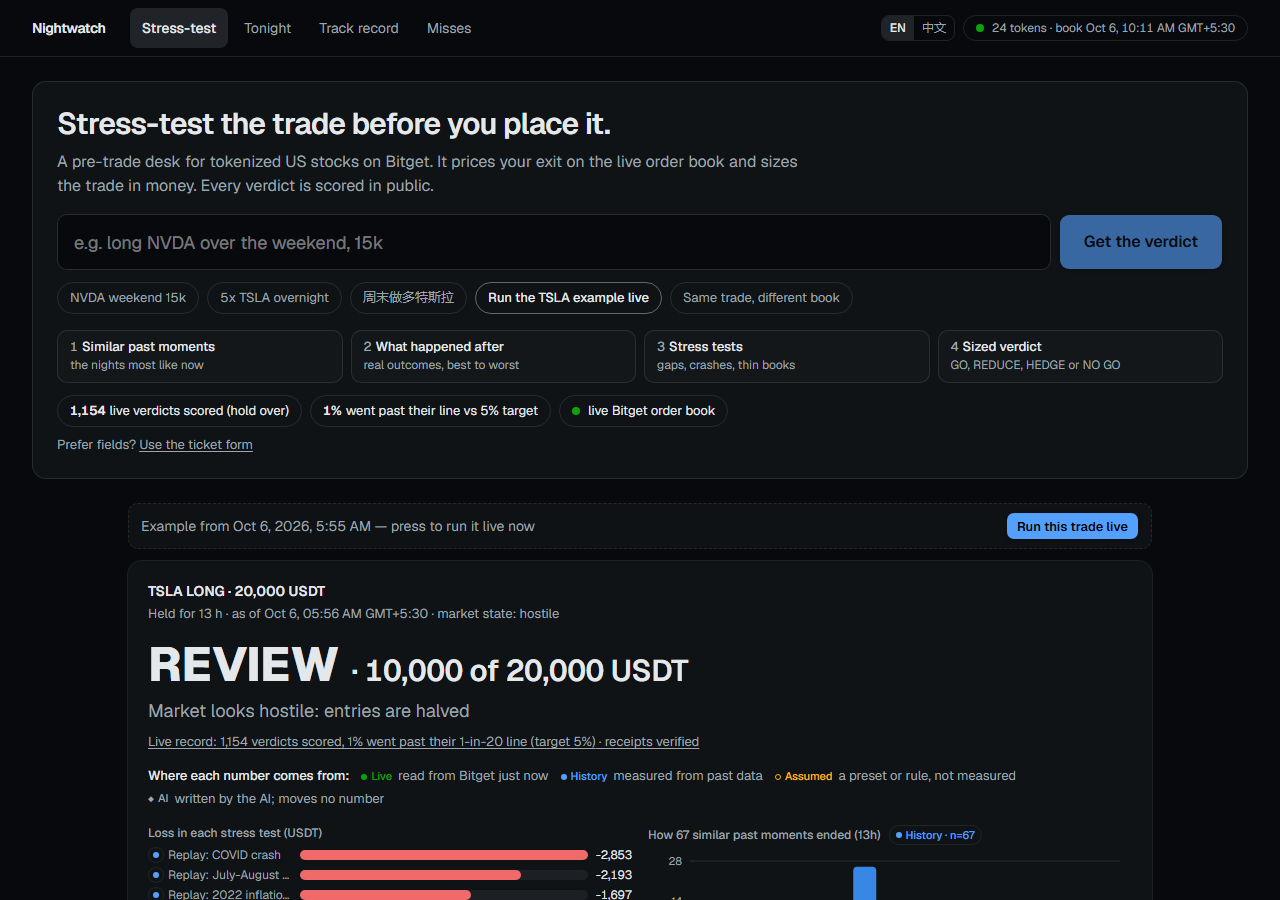
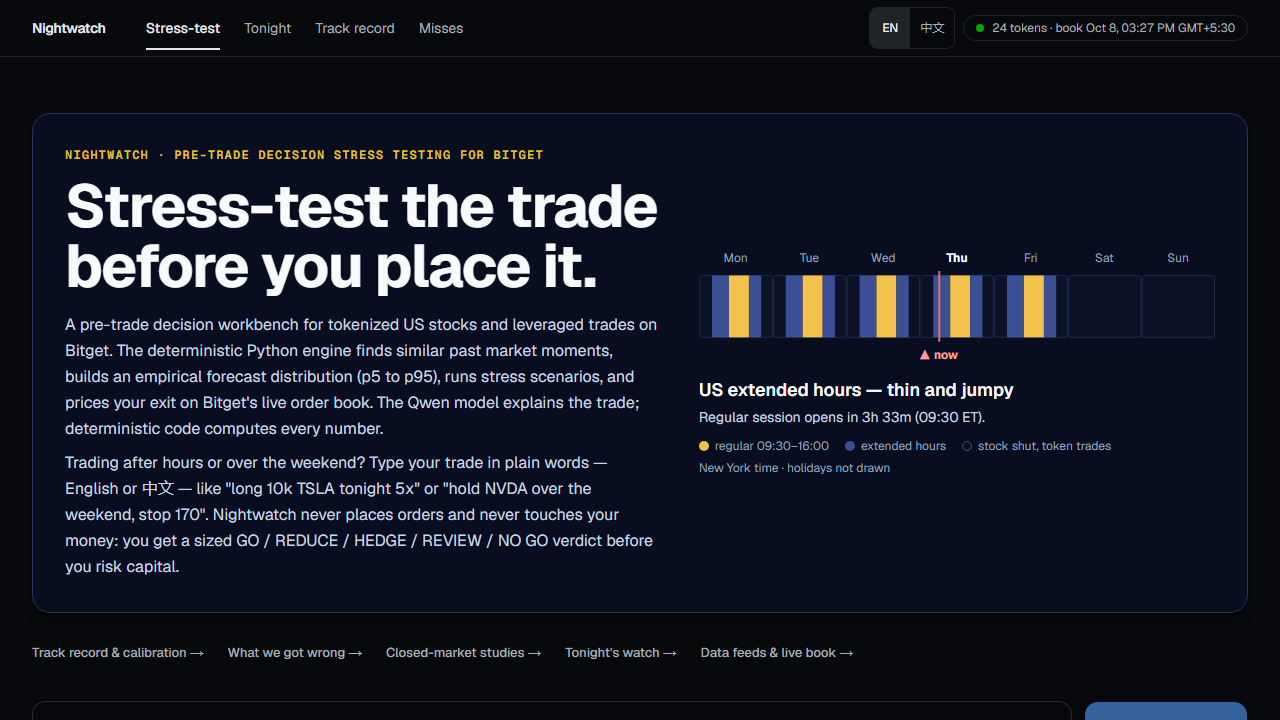
README: who it is for, the idea, one complete research task, a claim-boundaries table, refreshed figures and the new home page

diff --git a/README.md b/README.md
@@ -36,6 +36,37 @@ see all three steps, in order, on one screen, in under 60 seconds.
 
 ---
 
+## Who it is for, and the idea behind it
+
+**Built for** retail and semi-professional traders who hold tokenized US stocks on Bitget through
+the US close: roughly 5,000 to 200,000 USDT a position, a few trades a week, mostly the large
+names (TSLA, NVDA, AAPL, MSFT, AMZN, GOOGL, META) and the leveraged index tokens (TQQQ, SQQQ).
+They are happy to hold overnight or over a weekend and unhappy to be caught by a gap they never
+priced. **Not for** market makers, high-frequency systems, or anyone who wants an AI to place
+orders. Nightwatch never places one.
+
+**The idea.** A tokenized stock trades all week, but the stock behind it only trades about a fifth of
+the week (regular hours plus a few extended ones). The rest of the time the token's price is set by its own thin book, and
+the trader's worst losses come from a handful of those closed-market nights, not from average
+days. So the question worth asking before every position is: *if this goes wrong while the market
+is shut, how wrong, and what size survives it?* Nightwatch answers that from the token's own
+history, the stock's own 30-year record, and Bitget's live order book, and the AI only explains
+what deterministic code computed.
+
+## One complete research task, start to finish
+
+> **Question (typed as is):** *long 15000 usdt nvda 5x over the weekend stop 160*
+> **Asked on a Thursday, answered in about 13 seconds on the live desk, 8 Oct 2026.**
+
+- **Read.** Long 15,000 USDT of NVDA, 5x (3,000 margin), Friday's close to Monday's open (66 h), stop 160. It asks for the account size, which it needs to size the trade.
+- **Past moments and distribution.** A one-in-twenty bad night loses about 503 USDT at this size. Over NVDA's last 87 token weekends, 1 in 20 lost more than 3.5% and the worst was -13.7%. The stock's own record has 1,400+ weekends to set that against.
+- **Stress tests.** Ten preset cases (weekend gap, volatility spike, token-vs-fair-value blowout, a thin book, being unable to exit for 24 h, and more), plus a leverage table from 2x to 20x checked against the same history.
+- **Exit.** The live Bitget order book is walked for the exact size to price the real exit cost.
+- **Verdict.** REVIEW. The stop is 32% away, wider than the 25% rule, and without an account size the position can't be sized. By account size it says 25k, 50k, 100k, 250k each come out NO GO.
+
+That is the sub-theme's own loop, "retrieve similar scenarios, show the historical distribution,
+run preset stress tests", on one screen, ending in a decision the human still makes.
+
 ## One thing we measured that changes how you read a night quote
 
 At 3 a.m. the token has a price and the stock does not. Is that price a better guess at
@@ -154,16 +185,16 @@ sources in total**, every one live, every one listed with its real freshness on
 
 ## The proof (recompute it yourself — nothing here is a screenshot of a claim)
 
-Figures as of 6 Oct 2026. Pulled live from the production API — this whole block is
+Figures as of 8 Oct 2026. Pulled live from the production API — this whole block is
 rewritten by a script (`nightwatch proof-sync`) that reads the same endpoints linked
 below, so it can't drift from what the site shows.
 
 | Claim | The real number, right now | Check it yourself |
 |---|---:|---|
-| Every live verdict is on the record, unedited | **(1,548 checked, no break, as of 6 Oct 2026)** | [`/api/verify`](https://nightwatch-gules.vercel.app/api/verify) recomputes the whole hash chain live |
-| Anchored to something we can't fake | **(7 of 7 in Bitcoin; verify a `.ots` proof at opentimestamps.org)** | [`/api/anchors`](https://nightwatch-gules.vercel.app/api/anchors) |
-| The "1-in-20 bad case" line roughly holds | **3,468 scored forecasts (140 independent nights; resampling whole nights the interval is 2.2% to 4.8%), raw breach rate 4.7% (green), 3.4% with factors fitted only on earlier forecasts (green), as of 6 Oct 2026** | [`/calibration`](https://nightwatch-gules.vercel.app/calibration), recomputed live |
-| We publish our own misses | **104 of 2,131 replays and 12 of 1,267 live tickets (6 distinct events) went past the line (as of 6 Oct 2026)** | [`/wrong`](https://nightwatch-gules.vercel.app/wrong) — every one of them, listed |
+| Every live verdict is on the record, unedited | **(1,913 checked, no break, as of 8 Oct 2026)** | [`/api/verify`](https://nightwatch-gules.vercel.app/api/verify) recomputes the whole hash chain live |
+| Anchored to something we can't fake | **(9 of 9 in Bitcoin; verify a `.ots` proof at opentimestamps.org)** | [`/api/anchors`](https://nightwatch-gules.vercel.app/api/anchors) |
+| The "1-in-20 bad case" line roughly holds | **3,642 scored forecasts (141 independent nights; resampling whole nights the interval is 2.2% to 4.6%), raw breach rate 4.5% (green), 3.2% with factors fitted only on earlier forecasts (green), as of 8 Oct 2026** | [`/calibration`](https://nightwatch-gules.vercel.app/calibration), recomputed live |
+| We publish our own misses | **104 of 2,131 replays and 12 of 1,438 live tickets (6 distinct events) went past the line (as of 8 Oct 2026)** | [`/wrong`](https://nightwatch-gules.vercel.app/wrong) — every one of them, listed |
 | We test the method itself, not just the trades | **11 internal studies: 3 yes, 5 no, 3 unclear** (a 12th study, against a random-hours baseline, is built and merged but has not yet run on production) | [`/studies`](https://nightwatch-gules.vercel.app/studies), corrected for multiple testing |
 | Universe coverage | **24 tokenized US stocks live now** (configured for 112 — the throttled backfill in `docs/universe-expansion.md` hasn't run yet; check the real count live, not this line) | [`/api/universe`](https://nightwatch-gules.vercel.app/api/universe) |
 | Not verified by us | real-trader adoption; directional edge (measured: **none**) | — said plainly, not hidden |
@@ -172,36 +203,27 @@ below, so it can't drift from what the site shows.
   <img src="docs/img/calibration.png" alt="Track record page: 3,497 forecasts tested, the 1-in-20 warning beaten 3.5% of the time against a 5% target, and an honest 'not proven' badge where the evidence doesn't support a claim" width="860">
 </p>
 
-### The honest parts we could have hidden
+### Claim boundaries
 
-This is the part most entries skip, and it's the part that actually proves the numbers are
-real:
+What each claim is, said before anyone has to ask.
 
-* **p50/p75/p95 bands are flagged outside their confidence interval on the live page** —
-  we show it anyway, instead of quietly fixing the display.
-* **One internal study says our retrieval is "not proven" to beat picking a random past
-  hour** (closer in 45% of 2,280 pairs) — tagged on the track-record page itself, in
-  amber, not buried in a changelog.
-* **"Closer is not tighter."** We measured that weighting near-identical past moments more
-  heavily made the forecast *worse* (clustered t = −6.2, n = 958) — and shipped the version
-  that doesn't do that, instead of the version that looked cleverer.
-* **A short used to be stress-tested on the wrong tail** (a gain, not a loss) — found,
-  written up, and fixed; the fix is in the commit history, not erased.
-* **How far back our history goes.** The hourly history behind the analog search starts on
-  1 January 2025 (the sync's start date; Yahoo serves about two years of hourly bars). That is
-  enough for the common overnight and weekend cases, not for a 2008- or 2020-style
-  crash: those tails come from the fitted stress presets and the crash replays, and say so in
-  the report. A tool built on daily bars back to 1999 sees more rare events than we do; ours
-  sees the closed-hours path hour by hour.
-* **The whole scored record is a file.** [`/api/ledger`](https://nightwatch-gules.vercel.app/api/ledger)
-  lists every scored forecast with the line stated at the time, what happened and whether it
-  went past, and `/wrong` has a CSV download and the tickers where we are weakest. Recount the
-  totals above yourself.
-* **Multiple-testing correction, applied to ourselves.** Eleven of twelve studies started as
-  "yes" candidates; after Benjamini–Hochberg correction at 5%, only the ones that survive are
-  called findings. The rest say "no" or "unclear," on the page, in public.
+| Claim | Status | Where to check |
+|---|---|---|
+| Every live verdict is written down, hash-chained and anchored in Bitcoin | **Proven**, recomputable | [`/api/verify`](https://nightwatch-gules.vercel.app/api/verify), [`/api/anchors`](https://nightwatch-gules.vercel.app/api/anchors) |
+| The "1-in-20 bad case" line roughly holds | **Measured**: breach rate near the 5% target on thousands of scored forecasts, interval resampled by whole nights | [`/calibration`](https://nightwatch-gules.vercel.app/calibration) |
+| We publish the forecasts that went past the line | **Proven**: every one is listed, with a CSV | [`/wrong`](https://nightwatch-gules.vercel.app/wrong), [`/api/ledger`](https://nightwatch-gules.vercel.app/api/ledger) |
+| The chat reads trades correctly, in English and 中文 | **Measured**: blind set of 102 phrasings, misses published | [`/studies`](https://nightwatch-gules.vercel.app/studies) |
+| Stress tests use the stock's long record, not only two years of token bars | **Measured**: daily bars back to 1990 for 112 stocks | [`/api/deep-history/NVDA`](https://nightwatch-gules.vercel.app/api/deep-history/NVDA) |
+| Retrieval of past moments beats picking random hours | **Not proven**: closer in 45% of 2,280 pairs, shown in amber on the track-record page | [`/calibration`](https://nightwatch-gules.vercel.app/calibration) |
+| A directional edge (it tells you which way to bet) | **Not claimed**: measured, none. It sizes risk, it does not predict | [`/studies`](https://nightwatch-gules.vercel.app/studies) |
+| Real-trader adoption | **Not yet**: the validation plan is in [docs/submission.md](docs/submission.md) | - |
+| Places or touches orders | **Never**: read-only by design | - |
 
-If a judge can break a claim, we would rather have broken it first and said so.
+A few choices we made against looking clever: weighting near-identical past moments more heavily made
+the forecast worse (clustered t = -6.2, n = 958), so we shipped the version that doesn't; eleven of
+twelve internal studies started as "yes" candidates and only those that survive
+Benjamini-Hochberg correction are called findings; and the whole scored record is a file you can
+recount. If a judge can break a claim, we would rather have broken it first and said so.
 
 ---
 

diff --git a/docs/submission.md b/docs/submission.md
@@ -129,15 +129,15 @@ orders. Nightwatch never places orders.
 
 ### 3. Validation data and key metrics
 
-**Current figures, as of 6 Oct 2026** (live; recomputed from the journal and checked
+**Current figures, as of 8 Oct 2026** (live; recomputed from the journal and checked
 against the public endpoints that day):
 
-* Receipts: `/api/verify` recomputes 1,548 chained verdicts with no break; 7 of 7 daily
+* Receipts: `/api/verify` recomputes 1,913 chained verdicts with no break; 9 of 9 daily
   anchors are confirmed in Bitcoin.
-* Scored out of sample: 3,468 matured forecasts (140 independent nights; resampling whole nights the interval is 2.2% to 4.8%). The raw one-in-twenty loss (the 5th
-  percentile) was breached 4.7% of the time (green band); with tail factors fitted only on
-  earlier forecasts, 3.4% on 3,398 evaluated (green band).
-* Misses, published at `/wrong`: 104 of 2,131 replays and 12 of 1,267 live tickets (6 distinct events) went past the line.
+* Scored out of sample: 3,642 matured forecasts (141 independent nights; resampling whole nights the interval is 2.2% to 4.6%). The raw one-in-twenty loss (the 5th
+  percentile) was breached 4.5% of the time (green band); with tail factors fitted only on
+  earlier forecasts, 3.2% on 3,572 evaluated (green band).
+* Misses, published at `/wrong`: 104 of 2,131 replays and 12 of 1,438 live tickets (6 distinct events) went past the line.
 * Studies: 11 studies (9 formal tests with a p-value, 2 measurements), 5 no, 3 yes, 3 undecided. After correcting for the nine tests asked at once
   (Benjamini-Hochberg, 5%), 1 of the 3 yes survives (a model reading an SEC filing picks
   the ones that move the price, q = 0.004). No directional edge.
